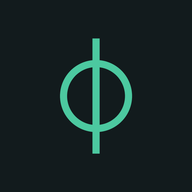
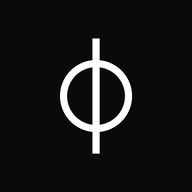
EVOLVE Treino: ícone a preto e branco (como o EVOLVE); logótipo guardado offline
Ícones icon-treino-180/192/512 iguais aos do EVOLVE (a Gestão fica laranja); service worker evolve-v6. O logótipo da entrada (logo-evolve-wordmark.jpg) passa a estar no pré-cache: sem rede aparecia partido (apanhado pelo teste de offline). Testes de offline-browser e gestao-split atualizados à ficha do aluno sem «Pedidos de ajuda». Suite: 4815 passam, 0 falham.

Claude-Session: https://claude.ai/code/session_01NChxPxwGPWYzu2gqoWawv3

Changed region(s): [[0.3125, 0.1875, 0.6875, 0.8125]]

diff --git a/tests/treino-app.test.js b/tests/treino-app.test.js
@@ -15,7 +15,7 @@ var manifest = JSON.parse(read("manifest-treino.json"));
 check.check("1. treino.html tem o mesmo corpo que as outras duas páginas (só muda o cabeçalho: título, manifesto, ícones e data-app)", bodyOf(treinoHtml) === bodyOf(indexHtml) && bodyOf(treinoHtml) === bodyOf(gestaoHtml));
 check.check("2. treino.html identifica-se como app «treino», com o seu manifesto e ícones; o corpo continua a ter #alunoApp (o service worker só guarda páginas da app)", /<html[^>]*data-app="treino"/.test(treinoHtml) && /manifest-treino\.json/.test(treinoHtml) && /icon-treino-180\.png/.test(treinoHtml) && /icon-treino-192\.png/.test(treinoHtml) && /id="alunoApp"/.test(treinoHtml) && /apple-mobile-web-app-title" content="Treino"/.test(treinoHtml));
 check.check("3. O manifesto da app Treino é independente: start_url, id e nome próprios; ícones existentes", manifest.start_url === "./treino.html" && manifest.id === "./treino.html" && manifest.id !== JSON.parse(read("manifest.json")).id && manifest.id !== JSON.parse(read("manifest-gestao.json")).id && /Treino/.test(manifest.name) && manifest.display === "standalone" && manifest.icons.length >= 2 && manifest.icons.every(function(i){ return fs.existsSync(path.join(root, i.src)); }));
-check.check("4. Os ícones são três tamanhos PNG, diferentes dos da EVOLVE e da Gestão", ["180", "192", "512"].every(function(n){ var f = path.join(root, "icon-treino-" + n + ".png"); return fs.existsSync(f) && !fs.readFileSync(f).equals(fs.readFileSync(path.join(root, "icon-" + n + ".png"))) && !fs.readFileSync(f).equals(fs.readFileSync(path.join(root, "icon-gestao-" + n + ".png"))); }));
+check.check("4. Os ícones são três tamanhos PNG (180, 192, 512 px) e são preto e branco, iguais aos da EVOLVE (decisão de design: já não são verdes) e diferentes dos da Gestão", ["180", "192", "512"].every(function(n){ var f = path.join(root, "icon-treino-" + n + ".png"), b = fs.existsSync(f) ? fs.readFileSync(f) : null; return b && b.readUInt32BE(16) === parseInt(n, 10) && b.readUInt32BE(20) === parseInt(n, 10) && b.equals(fs.readFileSync(path.join(root, "icon-" + n + ".png"))) && !b.equals(fs.readFileSync(path.join(root, "icon-gestao-" + n + ".png"))); }));
 check.check("5. O service worker guarda a página, o manifesto e os ícones de treino.html (e não o código da Corrida), e a cópia da página é por página (nunca o treino no lugar do EVOLVE)", ["treino.html", "manifest-treino.json", "icon-treino-180.png", "icon-treino-192.png", "icon-treino-512.png"].every(function(f){ return sw.indexOf('"' + f + '"') >= 0; }) && /treino\\\.html\$\/\.test\(p\) \? "treino\.html"/.test(sw));
 check.check("6. A app distingue os três modos pelo data-app (gestao | treino | acompanhamento)", /APP_MODE = \(function\(\)/.test(app) && /a === "treino" \? "treino"/.test(app));
 check.check("7. app.js não ficou maior que o limite (a Corrida vai noutro ficheiro, corrida.js)", Buffer.byteLength(app) < 1100000);

diff --git a/tests/gestao-split.test.js b/tests/gestao-split.test.js
@@ -93,7 +93,7 @@ function fixtureRow(id, name){
     (await A.pg.locator("#areaGestao, #areaAcomp, #navStudio, #navContracts").count()) === 0 && A.log.length === 0);
   await A.pg.locator('[data-open="a"]').first().click();
   await A.pg.waitForSelector("#proBack");
-  check.check("11. A ficha do aluno no Acompanhamento não tem o separador Pacotes", (await A.pg.locator('[data-sub="sessoes"]').count()) === 0 && !/Pacotes/.test(await A.pg.locator(".pro-subtabs").innerText()));
+  check.check("11. A ficha do aluno no Acompanhamento não tem o separador Pacotes", (await A.pg.locator('[data-sub="sessoes"]').count()) === 0 && !/Pacotes/.test(await A.pg.locator(".pro-subtabs").innerText().catch(function(){ return ""; })) /* sem «Pedidos de ajuda» o grupo «Resumo» só tem o Perfil e não mostra sub-separadores */);
   await A.pg.click("#proBack"); await A.pg.waitForSelector(".student-row");
   check.check("12. O botão «Eu» foi retirado do Acompanhamento", (await A.pg.locator("#navMe").count()) === 0);
   await A.ctx.close();
@@ -146,8 +146,8 @@ function fixtureRow(id, name){
   await W.pg.waitForFunction(function(){ return navigator.serviceWorker && navigator.serviceWorker.controller; }, null, {timeout: 8000}).catch(function(){});
   await W.pg.reload(); await W.pg.waitForSelector("#gcalCard");
   var names = ["gestao.js", "app.js", "app.css", "gestao.html"];
-  await W.pg.waitForFunction(function(n){ return caches.open("evolve-v5").then(function(c){ return Promise.all(n.map(function(x){ return c.match(x); })); }).then(function(m){ return m.every(Boolean); }); }, names, {timeout: 8000}).catch(function(){});
-  var cached = await W.pg.evaluate(function(n){ return caches.open("evolve-v5").then(function(c){ return Promise.all(n.map(function(x){ return c.match(x).then(function(m){ return !!m; }); })); }); }, names);
+  await W.pg.waitForFunction(function(n){ return caches.open("evolve-v6").then(function(c){ return Promise.all(n.map(function(x){ return c.match(x); })); }).then(function(m){ return m.every(Boolean); }); }, names, {timeout: 8000}).catch(function(){});
+  var cached = await W.pg.evaluate(function(n){ return caches.open("evolve-v6").then(function(c){ return Promise.all(n.map(function(x){ return c.match(x).then(function(m){ return !!m; }); })); }); }, names);
   check.check("18. O service worker guarda gestao.js, app.js, app.css e a página gestao.html (rede primeiro)", cached.every(Boolean));
   await W.ctx.setOffline(true);
   var offStatus = await W.pg.evaluate(function(){ return fetch("gestao.js").then(function(r){ return r.status; }).catch(function(e){ return "erro " + e.message; }); });

diff --git a/tests/offline-browser.test.js b/tests/offline-browser.test.js
@@ -54,7 +54,7 @@ function fixtureRow(id, name){
   var swReady = await page.evaluate(async function(){ var r = await navigator.serviceWorker.ready; return !!(r && r.active); });
   check.check("2. O service worker fica ativo", swReady);
   var cached = await page.evaluate(async function(){ var ks = await caches.keys(); var c = await caches.open(ks[0]); var reqs = await c.keys(); return {keys: ks, urls: reqs.map(function(r){ return new URL(r.url).pathname; })}; });
-  check.check("3. A cache tem a página, o Supabase local e as fontes", cached.keys[0] === "evolve-v5" && ["/index.html", "/vendor/supabase.js", "/fonts/manrope-latin-wght-normal.woff2", "/manifest.json"].every(function(u){ return cached.urls.indexOf(u) >= 0; }));
+  check.check("3. A cache tem a página, o Supabase local e as fontes", cached.keys[0] === "evolve-v6" && ["/index.html", "/vendor/supabase.js", "/fonts/manrope-latin-wght-normal.woff2", "/manifest.json"].every(function(u){ return cached.urls.indexOf(u) >= 0; }));
   var external = await page.evaluate(function(){ return performance.getEntriesByType("resource").map(function(r){ return r.name; }).filter(function(u){ return !/^http:\/\/127\.0\.0\.1/.test(u); }); });
   check.check("4. A app não pede nada a servidores externos ao abrir (fontes e Supabase são locais)", external.length === 0);
 
@@ -152,7 +152,7 @@ function fixtureRow(id, name){
   check.check("25. Desativar um aluno grava uma só gravação", pw1.length === 1);
   // gravação do profissional com a ficha aberta: só a coluna do telefone
   await pp.locator("[data-open]").first().click();
-  await pp.click('[data-sub="perfil"]');
+  if (await pp.locator('[data-sub="perfil"]').count()) await pp.click('[data-sub="perfil"]'); // sem «Pedidos de ajuda» o Perfil abre logo (não há sub-separadores)
   await pp.evaluate(function(){ document.querySelectorAll("details.perfil-section").forEach(function(d){ d.open = true; }); });
   var wb = await pp.evaluate(function(){ return window.__fake.writes.length; });
   await pp.fill("#contactPhone", "912 345 678");

diff --git a/sw.js b/sw.js
@@ -9,7 +9,7 @@
    Subir VERSION sempre que mudar um ficheiro de vendor/, fonts/ ou ícones (as páginas e o código atualizam-se sozinhos).
    v2 (duas apps): o service worker antigo guardava QUALQUER página da app como «index.html»; quem abrisse gestao.html antes da atualização
    deixava a Gestão no lugar do EVOLVE. Mudar o nome apaga essa cache e a cópia antiga de index.html (script inline). */
-var VERSION = "evolve-v5";
+var VERSION = "evolve-v6";
 var SHELL = [
   "./", "index.html", "gestao.html", "treino.html", "app.css", "alimentos.js", "app.js", "manifest.json", "manifest-gestao.json", "manifest-treino.json",
   "vendor/supabase.js",
@@ -17,7 +17,8 @@ var SHELL = [
   "fonts/jura-latin-600-normal.woff2", "fonts/jura-latin-700-normal.woff2", "fonts/jura-latin-300-normal.woff2",
   "icon-32.png", "icon-120.png", "icon-152.png", "icon-180.png", "icon-192.png", "icon-512.png",
   "icon-gestao-180.png", "icon-gestao-192.png", "icon-gestao-512.png",
-  "icon-treino-180.png", "icon-treino-192.png", "icon-treino-512.png"
+  "icon-treino-180.png", "icon-treino-192.png", "icon-treino-512.png",
+  "logo-evolve-wordmark.jpg" // o logótipo do ecrã de entrada e de carregamento (sem isto aparecia partido sem rede)
 ];
 var NAV_TIMEOUT_MS = 4000;
 

diff --git a/docs/OPERACOES.md b/docs/OPERACOES.md
@@ -414,14 +414,14 @@ O mesmo site tem **três apps instaláveis**, cada uma com a sua página, o seu 
 | App | Página | Ícone | Para quê |
 |---|---|---|---|
 | **EVOLVE** | `index.html` | preto e branco | Alimentação, avaliações e progresso do aluno; o profissional vê aqui Alunos, Catálogo e Eu (nutrição, treino, avaliação, corridas de cada aluno) |
-| **EVOLVE Treino** | `treino.html` | verde-água | Musculação (programa, registo de cada sessão, descanso, música) e **Corrida**; para o aluno |
+| **EVOLVE Treino** | `treino.html` | preto e branco (igual ao EVOLVE; já foi verde-água) | Musculação (programa, registo de cada sessão, descanso, música) e **Corrida**; para o aluno |
 | **EVOLVE Gestão** | `gestao.html` | laranja | Estúdio e Contratos; só para o profissional |
 
 - O código é o mesmo (`app.js`, `app.css`); cada página só diz de que app é com `<html data-app="…">` (`treino`, `gestao`; sem atributo = EVOLVE). `APP_MODE` em `app.js` escolhe o que se mostra.
 - **O treino saiu da app EVOLVE**: lá, «Hoje» tem só as refeições (e um atalho «Treino e corrida» para a nova app) e «Plano» só Alimentação e Compras. Os dados (`training_program`, `workout_logs`) não mudaram de sítio nem foram tocados; o profissional continua a editar o programa na ficha do aluno (grupo «Treino»). Alunos que «não fazem nutrição comigo» só veem o atalho na EVOLVE e usam a EVOLVE Treino.
 - **EVOLVE Treino**: dois separadores, «Treino» (o treino de hoje, o programa, os últimos treinos, uma ligação para a EVOLVE) e «Corrida» (ver 8u). Um profissional que abra `treino.html` vê o ecrã do aluno em pré-visualização, com o seletor de aluno.
 - **Instalar**: abrir `…/treino.html` no Safari → Partilhar → «Adicionar ao ecrã principal». **No iPhone cada ícone guarda a sua própria sessão** (afirmação já feita em 8m, não verificada de novo): o aluno inicia sessão uma vez em cada app. Se o treino já estava aberto na EVOLVE como atalho, deve instalar a nova.
-- O service worker guarda uma cópia de cada página por separado (`pageKey`) e `VERSION` subiu para `evolve-v5`; os ícones novos estão em `icon-treino-*.png`.
+- O service worker guarda uma cópia de cada página por separado (`pageKey`) e `VERSION` subiu para `evolve-v5` (e para `evolve-v6` quando o ícone do Treino passou a preto e branco); os ícones novos estão em `icon-treino-*.png`.
 - Verificado (Chromium, Supabase simulado, `tests/treino-app.test.js`): separadores de cada app, ecrãs, atalhos, pré-visualização do profissional, manifesto, service worker. **Por verificar em telemóvel real**: instalar no ecrã principal (ícone, nome «Treino», sessão própria por ícone) e o regresso do seletor de ficheiros/música.
 
 ### Pôr a funcionar sem surpresas (ordem de publicação e instalação)
@@ -709,3 +709,10 @@ O logótipo (`logo-evolve-wordmark.jpg`, a versão recortada de `logo-evolve.jpg
 **Arranque** (`#evSplash`, logo a seguir ao `<body>` das três páginas, escondido na Gestão por CSS): Phi branco com um anel laranja fino (`#e85d26` a 65 %), por cima de tudo, até a app decidir o que mostrar. Aí `hideAllScreens()` (que todos os caminhos chamam antes de mostrar o ecrã seguinte) verifica se `#appLoading` já não está visível e chama `splashRelease()`: espera o mínimo de 650 ms desde que a página abriu (`SPLASH_MIN_MS`, para o Phi não «piscar»), põe a classe `out` e retira o elemento 500 ms depois. A saída copia o vídeo de referência: dissolução de 0,27 s com `ease`, anel a alargar em linha reta (×1,42 em 0,35 s) e Phi a crescer 5 %. Com «reduzir movimento» sai em 0,12 s, sem anel nem escala. Se o JavaScript falhar, uma animação CSS (`evSplashFailsafe`) tira-o sozinho aos 6 s.
 
 **Imagem de arranque do iPhone** (`splash/arranque-LxA.png`, 12 tamanhos, ligadas por `apple-touch-startup-image` em `index.html` e `treino.html`): o primeiro fotograma, antes de a página abrir, tem as mesmas medidas do `#evSplash` (Phi 78 px, anel 79 px, em px CSS) para a passagem não se notar. Geram-se com `python3 scripts/gerar-ecras-arranque.py` (Pillow). **O iOS só lê estas imagens quando a app é adicionada ao ecrã principal**: quem já a tinha instalada tem de a remover e voltar a adicionar para as ver; o resto da animação (dentro da página) atualiza-se sozinho. Teste: `tests/splash.test.js`.
+
+## 8ba. Ícone do EVOLVE Treino a preto e branco e o logótipo offline
+
+- **Ícone:** o EVOLVE Treino deixa de ter o ícone verde-água e passa a usar o mesmo preto e branco do EVOLVE (`icon-treino-180/192/512.png` iguais a `icon-180/192/512.png`, por decisão do Tiago). A Gestão mantém o ícone laranja. Como o Treino e o EVOLVE ficam com ícones iguais, no ecrã principal distinguem-se só pelo nome. O service worker subiu para `evolve-v6` para o ícone novo não ficar preso na cache. **No iPhone o ícone antigo fica guardado: apaga a app do ecrã principal e volta a adicioná-la pelo Safari («Partilhar → Adicionar ao ecrã principal»).**
+- **Defeito apanhado pelo teste de offline:** `logo-evolve-wordmark.jpg` (logótipo da entrada e do carregamento, acrescentado no `main`) não estava no pré-cache do service worker, por isso sem rede aparecia partido. Passou a estar em `SHELL`.
+- **Testes do `main` por atualizar:** com os «Pedidos de ajuda» retirados, o grupo «Resumo» da ficha do aluno só tem o Perfil e deixou de ter sub-separadores; `offline-browser` e `gestao-split` esperavam o botão «Perfil» e foram ajustados (sem alterações à app).
+
